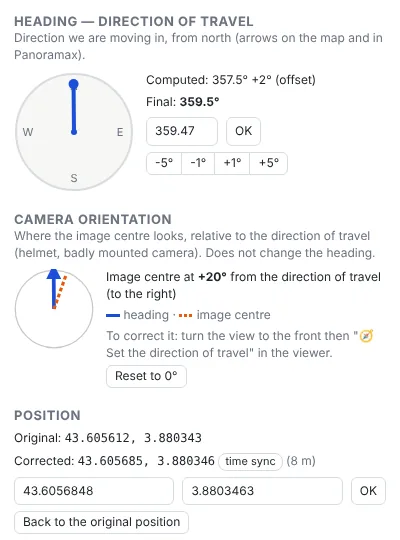
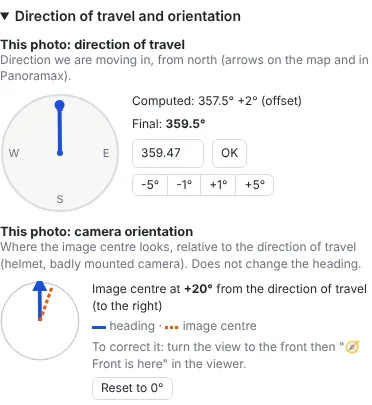
Captures du guide régénérées (FR et EN) : onglets-étapes, Positions et sens fusionné ; captures.js adapté
Closes #51

Claude-Session: https://claude.ai/code/session_01UxooiTB1SJsNtET5WquF4Y

Changed region(s): [[0.0, 0.0296, 1.0, 1.0], [0.3548, 0.2963, 0.5914, 0.3259], [0.6505, 0.2963, 0.6801, 0.3259]]

diff --git a/tools/captures.js b/tools/captures.js
@@ -5,8 +5,8 @@ const OUT = process.argv[2], BASE = process.argv[3] || 'http://127.0.0.1:8767/';
 const LANG = process.argv[4] === 'en' ? 'en' : 'fr';
 // Labels the script clicks on, per language (exact texts of frontend/src/i18n)
 const L = LANG === 'en'
-  ? { ride: 'Ride 14 June', seq: 'Sequences', summary: 'Summary', export: 'Export and send', sync: 'Sync', photo: 'Photo', basemap: 'Background map', heading: /heading/i, info: /information/i }
-  : { ride: 'Sortie 14 juin', seq: 'Séquences', summary: 'Bilan', export: 'Export', sync: 'Synchro', photo: 'Photo', basemap: 'Fond de carte', heading: /cap/i, info: /informations/i };
+  ? { ride: 'Ride 14 June', seq: 'Sequences', summary: 'Import', export: 'Export', sync: 'Sync', photo: 'Positions and direction', basemap: 'Background map' }
+  : { ride: 'Sortie 14 juin', seq: 'Séquences', summary: 'Import', export: 'Export', sync: 'Synchro', photo: 'Positions et sens', basemap: 'Fond de carte' };
 (async () => {
   const b = await chromium.launch(); const errors = [];
   const ctx = await b.newContext({ viewport: { width: 1280, height: 760 }, colorScheme: 'light', locale: LANG === 'en' ? 'en-GB' : 'fr-FR' });
@@ -17,11 +17,11 @@ const L = LANG === 'en'
   const shot = async (name, opts = {}) => { await p.screenshot({ path: `${OUT}/${name}.png`, ...opts }); console.log('ok', name); };
   const go = async (n) => { await p.keyboard.press('Home'); for (let i = 0; i < Math.floor(n / 10); i++) await p.keyboard.press('Shift+ArrowRight'); for (let i = 0; i < n % 10; i++) await p.keyboard.press('ArrowRight'); await wait(); };
 
-  await p.addInitScript((lang) => { try { localStorage.setItem('pss-basemap', 'osm'); localStorage.setItem('pss-follow', '1'); localStorage.setItem('pss-lang', lang) } catch {} }, LANG);
+  await p.addInitScript((lang) => { try { localStorage.setItem('pss-basemap', 'osm'); localStorage.setItem('pss-follow', '1'); localStorage.setItem('pss-lang', lang); localStorage.setItem('pss-tips-seen', '1') } catch {} }, LANG);
   await p.goto(BASE); await p.waitForSelector('.project-name'); await wait();
   await shot('01-projets');
 
-  await p.click(`.project-name:has-text("${L.ride}")`); await p.waitForSelector('.tabs');
+  await p.click(`.project-name:has-text("${L.ride}")`); await p.waitForSelector('.steps');
   await go(40); await p.evaluate(() => window.__pssMap.zoomTo(16.3, { duration: 0 })); await tiles();
   await shot('02-ecran');
 
@@ -30,22 +30,22 @@ const L = LANG === 'en'
   await shot('03-debut-fin');
   await p.keyboard.press('Escape');
 
-  await p.click(`.tab:has-text("${L.seq}")`); await wait();
+  await p.click(`.step:has(.lab:text-is("${L.seq}"))`); await wait();
   await shot('04-sequences');
 
-  await p.click(`.tab:has-text("${L.summary}")`); await wait();
+  await p.click(`.step:has(.lab:text-is("${L.summary}"))`); await wait();
   await shot('09-bilan');
 
-  await p.click(`.tab:has-text("${L.export}")`); await wait();
+  await p.click(`.step:has(.lab:text-is("${L.export}"))`); await wait();
   await shot('08-export');
 
   // satellite IGN for sync and positions
   await p.selectOption(`select[aria-label="${L.basemap}"]`, 'ign-ortho'); await wait(1000);
-  await p.click(`.tab:has-text("${L.sync}")`); await wait(1500);
+  await p.click(`.step:has(.lab:text-is("${L.sync}"))`); await wait(1500);
   await go(150); await p.evaluate(() => window.__pssMap.zoomTo(18, { duration: 0 })); await tiles();
   await shot('05-synchro');
 
-  await p.click(`.tab:has-text("${L.photo}")`); await wait();
+  await p.click(`.step:has(.lab:text-is("${L.photo}"))`); await wait();
   await go(100); await p.keyboard.press('m'); await p.evaluate(() => window.__pssMap.zoomTo(18.5, { duration: 0 })); await tiles();
   const mk = await p.locator('.maplibregl-marker').last().boundingBox();
   if (mk) { const x = mk.x + mk.width / 2, y = mk.y + mk.height - 4; await p.mouse.move(x, y); await p.mouse.down(); await p.mouse.move(x + 40, y - 25, { steps: 8 }); await p.mouse.up(); await wait(1200); }
@@ -55,12 +55,7 @@ const L = LANG === 'en'
   // heading / orientation part of the photo panel
   await go(130); await wait(1500);
   await p.setViewportSize({ width: 1280, height: 1500 }); await wait(1200);
-  const box = await p.evaluate(([capRe, infoRe]) => {
-    const hs = [...document.querySelectorAll('aside.side h3')];
-    const cap = hs.find(h => new RegExp(capRe, 'i').test(h.textContent)), info = hs.find(h => new RegExp(infoRe, 'i').test(h.textContent));
-    const a = cap.getBoundingClientRect(), b = info.getBoundingClientRect(), side = document.querySelector('aside.side').getBoundingClientRect();
-    return { x: side.x, y: a.y - 12, width: side.width, height: b.y - a.y };
-  }, [L.heading.source, L.info.source]);
+  const box = await p.evaluate(() => { const r = document.querySelector('details[data-section="travel"]').getBoundingClientRect(); return { x: r.x, y: r.y - 6, width: r.width, height: r.height + 12 } });
   await p.screenshot({ path: `${OUT}/07-cap.png`, clip: box }); console.log('ok 07-cap');
   await p.setViewportSize({ width: 1280, height: 760 }); await wait();
 

diff --git a/doc/GUIDE_UTILISATEUR.md b/doc/GUIDE_UTILISATEUR.md
@@ -430,7 +430,7 @@ photos ; 0 le retire. Ce réglage ne dépend pas des séquences, qui ne sont qu'
 *Fixer* (même cap manuel pour toutes) et *Caps calculés*. Les caps manuels ne sont jamais écrasés ; un cap manuel voisin d'une position corrigée est marqué
 « à revoir ».
 
-![Cap et position d'une photo](images/07-cap.webp)
+![Sens de déplacement et orientation d'une photo](images/07-cap.webp)
 *Onglet *Positions et sens* : cap calculé (avec son décalage éventuel), orientation de la photo par rapport au sens de déplacement, cap final ; position d'origine et position corrigée (ici par la synchro, 8 m).*
 
 ### Caméra sur casque

diff --git a/doc/USER_GUIDE.md b/doc/USER_GUIDE.md
@@ -407,7 +407,7 @@ removes it. This setting does not depend on sequences, which are only a split. O
 heading for all) and *Computed headings*. Manual headings are never overwritten; a manual heading next to a corrected position is marked
 « to review ».
 
-![Heading and position of a photo](images/en/07-cap.webp)
+![Direction of travel and orientation of a photo](images/en/07-cap.webp)
 *Positions and direction* tab: computed heading (with its offset if any), orientation of the photo relative to the direction of travel, final heading; original position and corrected position (here by the sync, 8 m).*
 
 ### Camera on a helmet
